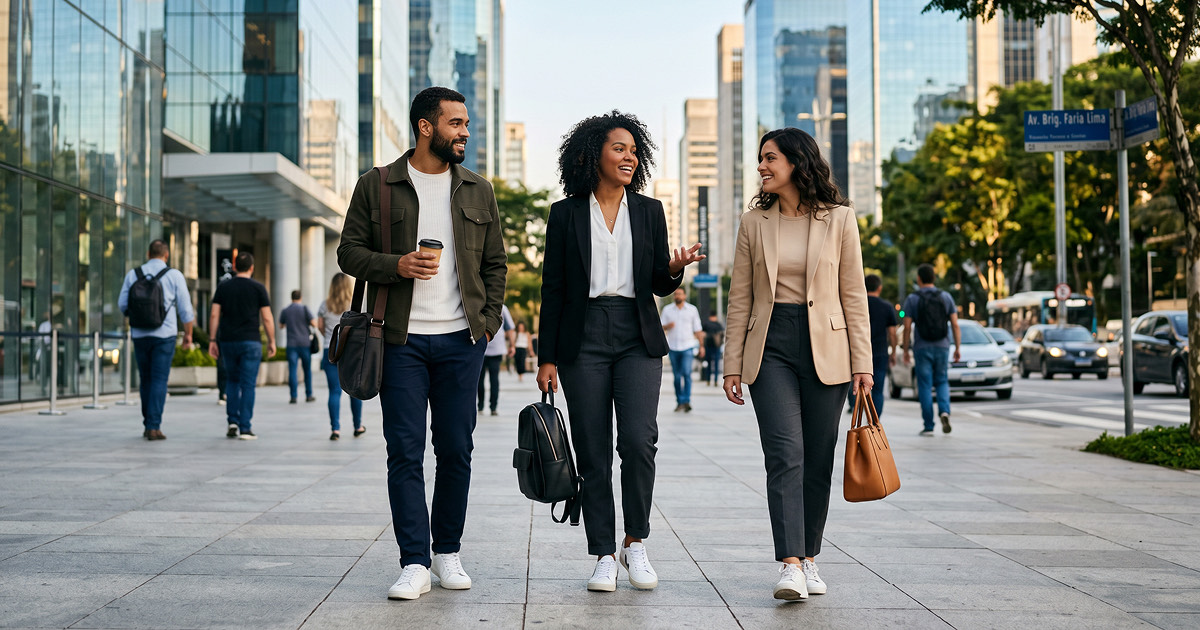
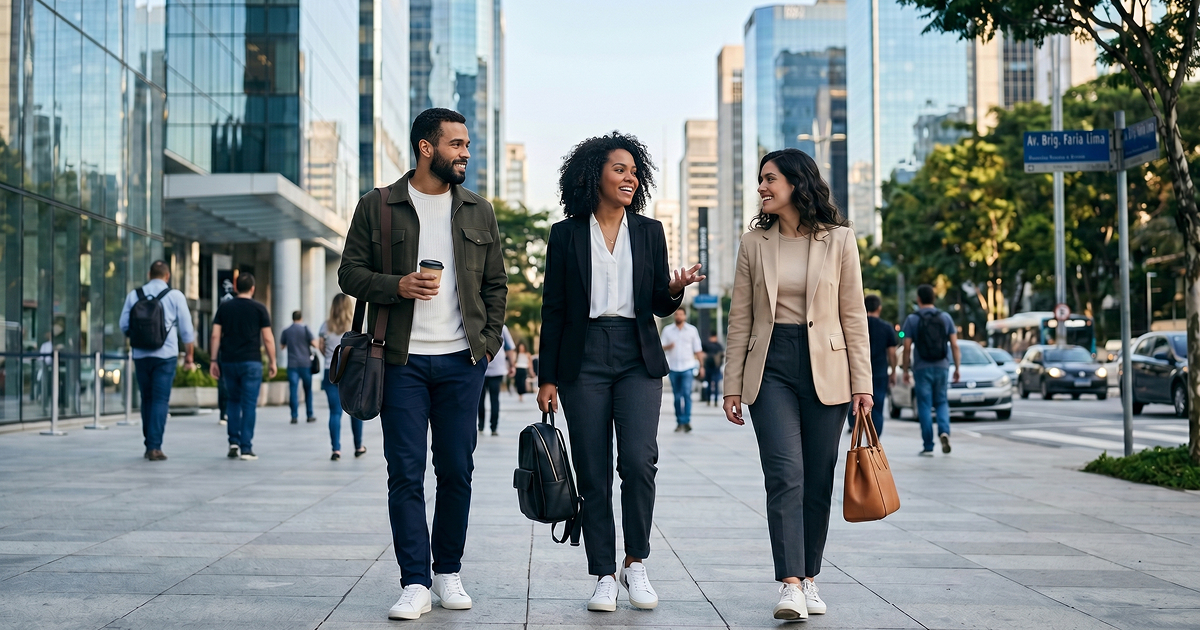
Home: rebuild features section to comp + refresh 4 images
- #features section rebuilt per Figma comp: LAFINTECA chip (5px rounded
  rect), IBM Plex Sans Light section title with green 'com clareza.'
  gradient, Plex Sans card copy (titles 24 / body 14), lilac top-glow card
  gradients, exact Figma SVG icons (history / diagonal transfer / bars),
  rounded lilac CTA
- Load IBM Plex Sans weight 300 for the Light section title
- Swap hero / fintech / CTA / MacBook images for refreshed versions
- Update 'Do MEI à Fintech...' section heading copy (PT + EN)

diff --git a/pages/home.html b/pages/home.html
@@ -41,11 +41,12 @@
   <!-- INTRO: A conta PJ mais simples que existe -->
   <section class="home-block" id="features">
     <div class="home-block__inner home-block__inner--center">
-      <h2 class="home-block__title home-block__title--oneline fade-in-on-scroll"><span data-lang="pt">Tudo para mover o dinheiro da empresa com clareza</span><span data-lang="en">Everything to move company money with clarity</span></h2>
+      <span class="home-eyebrow home-eyebrow--purple fade-in-on-scroll">LaFinteca</span>
+      <h2 class="home-block__title home-block__title--oneline fade-in-on-scroll"><span data-lang="pt">Tudo para mover o dinheiro da empresa <span class="home-block__accent">com clareza.</span></span><span data-lang="en">Everything to move company money <span class="home-block__accent">with clarity.</span></span></h2>
       <div class="intro-cards">
         <article class="intro-card fade-in-on-scroll" data-stagger="1">
           <div class="intro-card__icon" aria-hidden="true">
-            <svg width="22" height="22" viewBox="0 0 24 24" fill="none" stroke="currentColor" stroke-width="1.8" stroke-linecap="round" stroke-linejoin="round"><circle cx="12" cy="12" r="9"/><polyline points="12 7 12 12 15.5 14"/></svg>
+            <img src="assets/icons/clock.svg" width="56" height="56" alt="">
           </div>
           <h3 class="intro-card__title"><span data-lang="pt">Abra em minutos</span><span data-lang="en">Open in minutes</span></h3>
           <p class="intro-card__body"><span data-lang="pt">Envie seu CNPJ, confirme seus dados e sua conta está ativa. Sem filas, sem papelada, sem espera.</span><span data-lang="en">Send your CNPJ, confirm your details and your account is active. No queues, no paperwork, no waiting.</span></p>
@@ -53,7 +54,7 @@
         </article>
         <article class="intro-card fade-in-on-scroll" data-stagger="2">
           <div class="intro-card__icon" aria-hidden="true">
-            <svg width="22" height="22" viewBox="0 0 24 24" fill="none" stroke="currentColor" stroke-width="1.8" stroke-linecap="round" stroke-linejoin="round"><path d="M4 7h13l-3-3"/><path d="M20 17H7l3 3"/></svg>
+            <img src="assets/icons/arrows.svg" width="56" height="56" alt="">
           </div>
           <h3 class="intro-card__title"><span data-lang="pt">Pague e receba na hora</span><span data-lang="en">Pay and get paid instantly</span></h3>
           <p class="intro-card__body"><span data-lang="pt">TED, agendamentos e muito mais, tudo integrado, com confirmação em tempo real.</span><span data-lang="en">TED, scheduled payments and more, fully integrated, with real-time confirmation.</span></p>
@@ -61,14 +62,13 @@
         </article>
         <article class="intro-card fade-in-on-scroll" data-stagger="3">
           <div class="intro-card__icon" aria-hidden="true">
-            <svg width="22" height="22" viewBox="0 0 24 24" fill="none" stroke="currentColor" stroke-width="1.8" stroke-linecap="round" stroke-linejoin="round"><line x1="4" y1="20" x2="4" y2="10"/><line x1="10" y1="20" x2="10" y2="6"/><line x1="16" y1="20" x2="16" y2="13"/><line x1="22" y1="20" x2="22" y2="4"/></svg>
+            <img src="assets/icons/bars.svg" width="56" height="56" alt="">
           </div>
           <h3 class="intro-card__title"><span data-lang="pt">Extrato, saldo e comprovante. Tudo em um lugar.</span><span data-lang="en">Statement, balance, receipt. All in one place.</span></h3>
           <p class="intro-card__body"><span data-lang="pt">Filtre por entrada, saída e período. Exporte extratos. Baixe comprovantes em PNG para a contabilidade. Tudo registrado.</span><span data-lang="en">Filter by inflow, outflow and date range. Export statements. Download PNG receipts for accounting. Everything logged.</span></p>
-          <p class="intro-card__stat is-placeholder">[STAT_PLACEHOLDER]</p>
         </article>
       </div>
-      <button class="btn btn-primary intro-cta" onclick="location.href='/contapj/'"><span><span data-lang="pt">Saiba mais sobre a Conta PJ</span><span data-lang="en">Learn more about Conta PJ</span></span></button>
+      <button class="btn btn-purple intro-cta" onclick="location.href='/contapj/'"><span><span data-lang="pt">Saiba mais sobre a Conta PJ</span><span data-lang="en">Learn more about Conta PJ</span></span></button>
     </div>
   </section>
 
@@ -76,10 +76,10 @@
   <section class="home-block home-block--alt">
     <div class="home-block__inner home-split">
       <div class="home-split__copy">
-        <h2 class="home-block__title fade-in-on-scroll"><span data-lang="pt">Da PME à fintech,<br>o dinheiro da empresa precisa sair certo.</span><span data-lang="en">From SMB to fintech,<br>company money needs to go out right.</span></h2>
+        <h2 class="home-block__title fade-in-on-scroll"><span data-lang="pt">Do MEI à Fintech,<br>a operação financeira da sua empresa precisa ser impecável.</span><span data-lang="en">From MEI to fintech,<br>your company's financial operation needs to be flawless.</span></h2>
         <p class="home-block__sub"><span data-lang="pt">Não importa o volume. Cada TED tem hora marcada, cada pagamento tem comprovante, cada extrato tem filtro. Sua operação financeira não precisa de surpresas.</span><span data-lang="en">Volume doesn't matter. Every TED has a scheduled time, every payment has a receipt, every statement has a filter. Your financial operation doesn't need surprises.</span></p>
       </div>
-      <img class="home-split__img" src="assets/home-fintech.jpg" width="1090" height="630" loading="lazy" decoding="async" alt="Dois profissionais conversando em uma área de convivência de um escritório de fintech em São Paulo.">
+      <img class="home-split__img" src="assets/home-fintech.jpg" width="1200" height="630" loading="lazy" decoding="async" alt="Dois profissionais conversando em uma área de convivência de um escritório de fintech em São Paulo.">
     </div>
   </section>
 
@@ -92,7 +92,7 @@
     <figure class="laptop-shot fade-in-on-scroll">
       <img class="laptop-shot__img"
            src="assets/macbook-mockup-dual.png"
-           width="1600" height="880"
+           width="1304" height="684"
            loading="lazy" decoding="async"
            alt="Painel da Conta PJ LaFinteca em dois MacBooks: tela inicial com saldo e ações rápidas, e tela de extrato com filtros e agendamentos.">
     </figure>

diff --git a/assets/css/site.css b/assets/css/site.css
@@ -315,6 +315,14 @@
     border: 1px solid var(--green);
   }
   .btn-green:hover { background: var(--white); border-color: var(--white); color: var(--dark); }
+  /* Lilac CTA — used on the home "Tudo para mover..." section, per the design comp.
+     Rounded corners (the base .btn is square); the rest of the site keeps square CTAs. */
+  .btn-purple {
+    background: var(--purple); color: var(--black);
+    border: 1px solid var(--purple);
+    border-radius: 8px;
+  }
+  .btn-purple:hover { background: var(--white); border-color: var(--white); color: var(--dark); }
   .btn-ghost {
     background: transparent; color: var(--white);
     border: 1px solid var(--white);
@@ -777,6 +785,17 @@
     text-transform: uppercase;
     margin: 0 0 20px;
   }
+  /* Lilac variant of the eyebrow chip — brand stamp on the home features section.
+     A compact 5px-radius rounded rectangle (not the default pill), per chip.svg. */
+  .home-eyebrow--purple {
+    background: rgba(195, 171, 255, 0.2);
+    color: var(--purple);
+    border-color: transparent;
+    border-radius: 5px;
+    padding: 5px 9px;
+    font-size: 10px;
+    letter-spacing: 0.5px;
+  }
   /* Logo variant of the eyebrow chip: the LaFinteca wordmark sits inside the
      pill in place of text (used on the About hero). */
   .home-eyebrow--logo {
@@ -805,6 +824,8 @@
     background-clip: text;
     color: transparent;
   }
+  /* Inline lime accent for a trailing phrase inside a section title. */
+  .home-block__accent { color: var(--green); }
   /* One-line heading: slightly smaller measure so a longer line holds to a
      single row on desktop. Falls back to natural wrap on narrow viewports. */
   .home-block__title--oneline {
@@ -1142,6 +1163,73 @@
     margin: 0;
   }
   .intro-cta { margin-top: 48px; }
+
+  /* Home "Tudo para mover..." feature section, per the design comp.
+     Scoped to #features so the shared .intro-card component and section
+     title styles are untouched on the Conta PJ page.
+     Typography here is IBM Plex Sans (the rest of the site uses Plex Mono). */
+
+  /* Section heading: IBM Plex Sans Light 38 / 104% / -1%, white, with the
+     trailing "com clareza." span carrying a lime gradient. */
+  #features .home-block__title {
+    font-family: 'IBM Plex Sans', sans-serif;
+    font-weight: 300;
+    font-size: clamp(30px, 5vw, 38px);
+    line-height: 1.04;
+    letter-spacing: -0.01em;
+    text-transform: none;
+    color: var(--white);
+    -webkit-text-fill-color: var(--white);
+  }
+  #features .home-block__accent {
+    background: linear-gradient(180deg, #d8ff8c 0%, var(--green) 52%, #a4e22b 100%);
+    -webkit-background-clip: text;
+    background-clip: text;
+    -webkit-text-fill-color: transparent;
+    color: transparent;
+  }
+
+  /* Cards: lilac glow gradient concentrated at the top fading to dark,
+     flat (no top accent bar). */
+  #features .intro-card::before { display: none; }
+  #features .intro-card {
+    background:
+      radial-gradient(130% 92% at 50% 0%, rgba(195, 171, 255, 0.17) 0%, rgba(195, 171, 255, 0) 52%),
+      linear-gradient(180deg, var(--dark-2) 0%, #191919 100%);
+    border-color: rgba(195, 171, 255, 0.14);
+  }
+
+  /* Self-contained SVG icon tiles (lilac bg + white glyph baked into the file). */
+  #features .intro-card__icon {
+    width: 56px; height: 56px;
+    background: none;
+    border-radius: 0;
+  }
+  #features .intro-card__icon img { width: 56px; height: 56px; display: block; }
+
+  /* Card copy: IBM Plex Sans — title Regular 24 / 128% / 2%, body Regular 14 / 22px / 2%. */
+  #features .intro-card__title {
+    font-family: 'IBM Plex Sans', sans-serif;
+    font-weight: 400;
+    font-size: 24px;
+    line-height: 1.28;
+    letter-spacing: 0.02em;
+    text-transform: none;
+  }
+  #features .intro-card__body {
+    font-family: 'IBM Plex Sans', sans-serif;
+    font-weight: 400;
+    font-size: 14px;
+    line-height: 22px;
+    letter-spacing: 0.02em;
+  }
+  #features .intro-card__stat {
+    font-family: 'IBM Plex Sans', sans-serif;
+    font-weight: 600;
+    font-size: 13px;
+    letter-spacing: 0.01em;
+    color: var(--white);
+  }
 
   /* ==== Conta PJ page ==== */
   .contapj-hero {

diff --git a/partials/head.html b/partials/head.html
@@ -13,7 +13,7 @@
 <meta property="og:url" content="{{CANONICAL}}">
 <link rel="preconnect" href="https://fonts.googleapis.com">
 <link rel="preconnect" href="https://fonts.gstatic.com" crossorigin>
-<link href="https://fonts.googleapis.com/css2?family=IBM+Plex+Mono:wght@400;500;600&family=IBM+Plex+Sans:wght@400;500;600&display=swap" rel="stylesheet">
+<link href="https://fonts.googleapis.com/css2?family=IBM+Plex+Mono:wght@400;500;600&family=IBM+Plex+Sans:wght@300;400;500;600&display=swap" rel="stylesheet">
 <script>document.documentElement.classList.add('js-enabled');</script>
 <link rel="stylesheet" href="/assets/css/site.css">
 </head>
